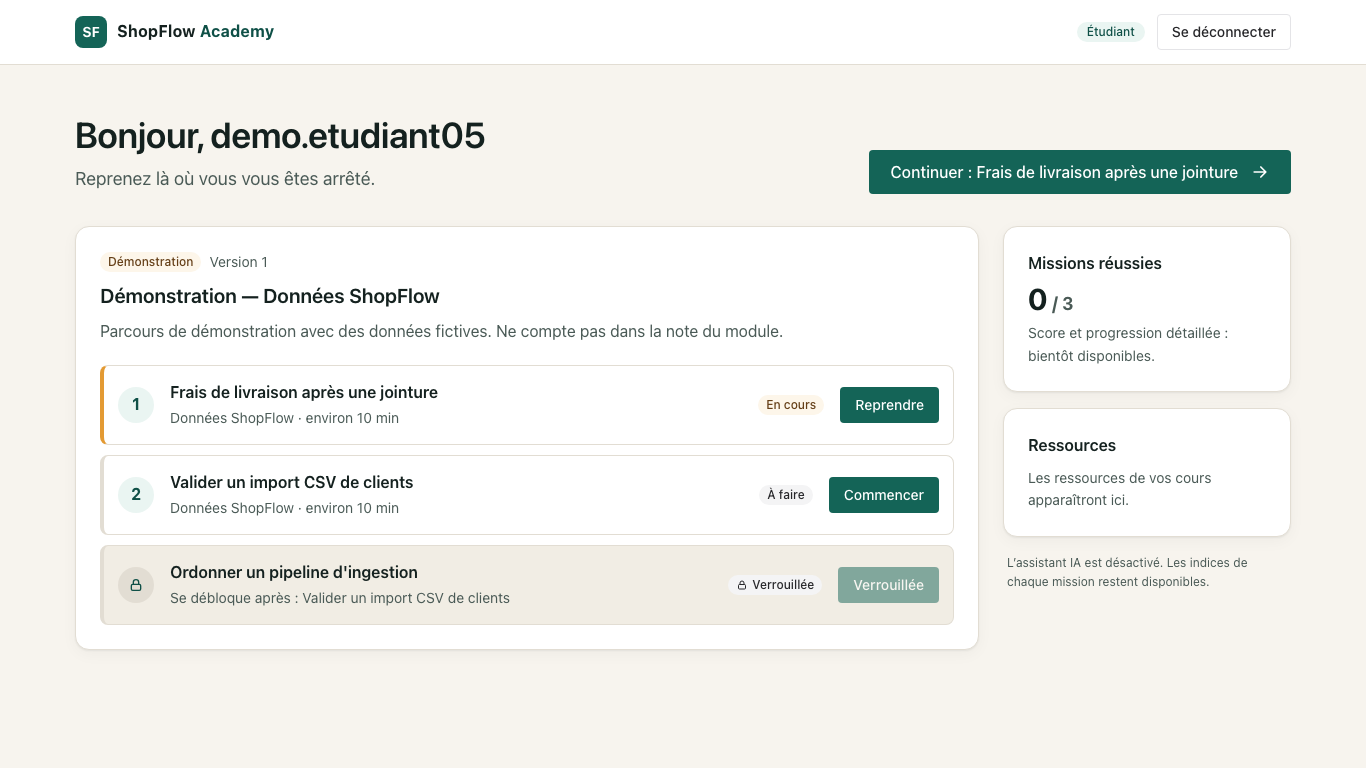
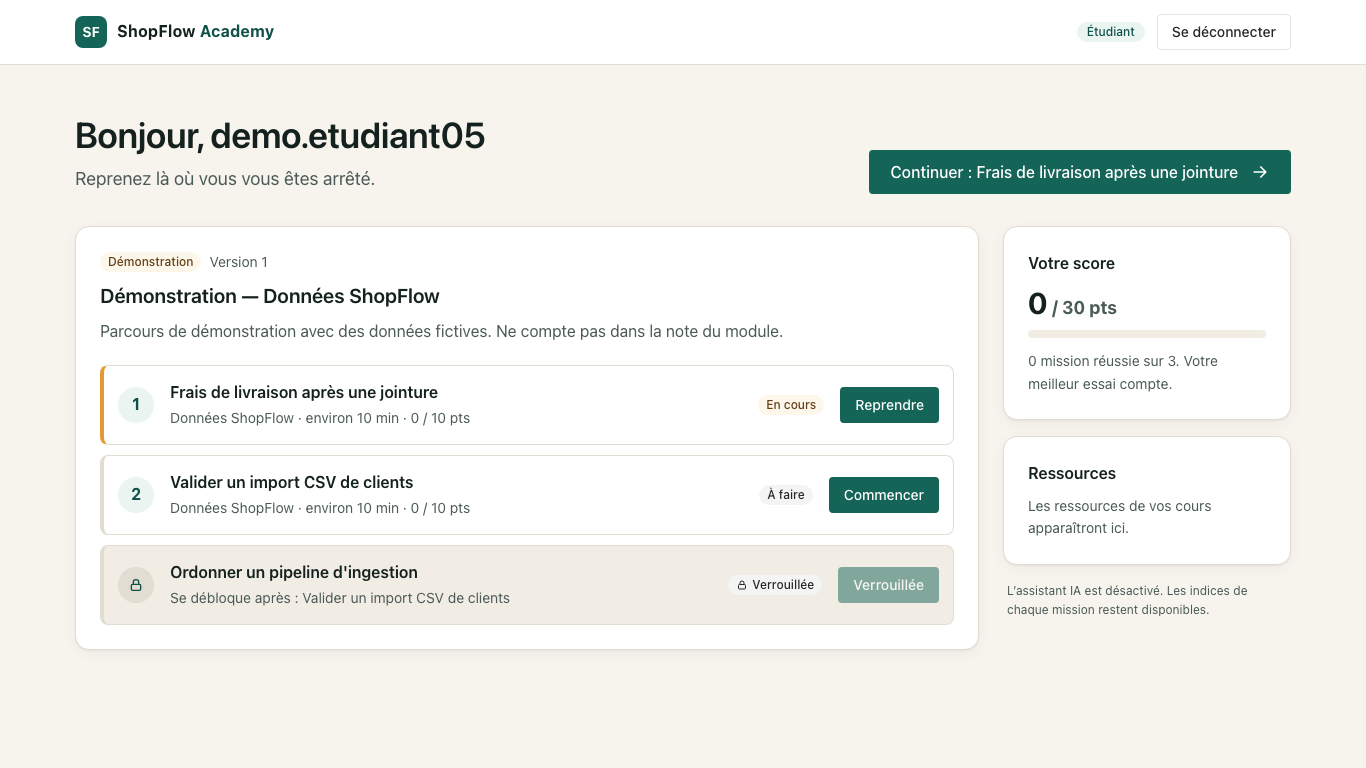
fix(p0-06): keep keyboard focus on reordered steps; add ADR-0012 and captures
React moves keyed DOM nodes when the order changes, which blurred the
button; focus is now restored after commit.

Changed region(s): [[0.7379, 0.3125, 0.9531, 0.8125], [0.3075, 0.6562, 0.3382, 0.6875], [0.3075, 0.5312, 0.3382, 0.5625]]

diff --git a/frontend/src/student/activities.tsx b/frontend/src/student/activities.tsx
@@ -1,4 +1,4 @@
-import { useRef, useState } from "react"
+import { useEffect, useRef, useState } from "react"
 import { Box, Button, Flex, NativeSelect, Stack, Table, Text, VisuallyHidden } from "@chakra-ui/react"
 import type { Choice, DisplayData } from "../studioTypes"
 import type { Answer, PlayerDefinition } from "./types"
@@ -54,7 +54,13 @@ export function ChoiceActivity({ definition, answer, onChange, disabled, name }:
 export function ReorderActivity({ definition, answer, onChange, disabled }: ActivityProps) {
   const [announcement, setAnnouncement] = useState("")
   const refs = useRef<Record<string, HTMLButtonElement | null>>({})
+  const focusAfterMove = useRef<string | null>(null)
   const byId = new Map(definition.choices.map((choice) => [choice.id, choice]))
+  // Reordering keyed DOM nodes blurs them: restore focus once React has committed the new order.
+  useEffect(() => {
+    if (focusAfterMove.current) refs.current[focusAfterMove.current]?.focus()
+    focusAfterMove.current = null
+  }, [answer.choice_ids])
   function move(index: number, direction: -1 | 1) {
     const target = index + direction
     if (target < 0 || target >= answer.choice_ids.length) return
@@ -64,7 +70,7 @@ export function ReorderActivity({ definition, answer, onChange, disabled }: Acti
     const id = next[target]
     setAnnouncement(`« ${byId.get(id)?.label} » est maintenant en position ${target + 1} sur ${next.length}.`)
     const edge = target === 0 || target === next.length - 1
-    requestAnimationFrame(() => refs.current[`${id}:${edge ? (direction < 0 ? 1 : -1) : direction}`]?.focus())
+    focusAfterMove.current = `${id}:${edge ? (direction < 0 ? 1 : -1) : direction}`
   }
   return <Box><Stack gap="2" as="ol" listStyleType="none" m="0" p="0" aria-label="Étapes à ordonner">
     {answer.choice_ids.map((id, index) => <Flex as="li" key={id} align="center" gap="3" p="3" bg="app.surface"

diff --git a/frontend/e2e/player.spec.ts b/frontend/e2e/player.spec.ts
@@ -105,7 +105,10 @@ test("a student completes the three demonstrations with the keyboard only", asyn
     let current = labels.findIndex((text) => text.includes(expected[target]))
     if (current <= target) continue
     const up = page.getByRole("button", { name: `Monter « ${expected[target]} »` })
-    await up.focus()
+    await expect(async () => {
+      await up.focus()
+      await expect(up).toBeFocused({ timeout: 300 })
+    }).toPass({ timeout: 10_000 })
     while (current > target) {
       // Focus follows the moved step, so a keyboard user simply presses Enter again.
       await expect(up).toBeFocused()

diff --git a/docs/DECISIONS/0012-grading-progress.md b/docs/DECISIONS/0012-grading-progress.md
@@ -1,0 +1,21 @@
+# ADR-0012 — Notation déterministe et progression dérivée du journal des tentatives
+
+**Date :** 2026-10-28
+**Statut :** accepté pour P0-06
+
+## Décision
+
+- **Points par tentative** calculés à l'insertion par `app.grading.score(definition, answer)`, fonction pure de la définition publiée immuable et de la réponse stockée (identifiants auteurs). Colonne `mission_attempts.points` (migration 0005) ; les tentatives antérieures (P0-05) valent `max_points` si justes, 0 sinon.
+- **Barème par mission** (`scoring`) : `all_or_nothing` par défaut ; `partial` autorisé pour choix multiple (bonnes − mauvaises sélections, plancher 0), ordre (positions justes), association (paires justes). Réglable dans le studio sans code.
+- **Meilleur score conservé** : `max(points)` des tentatives de l'étudiant sur la version ; « réussie » = au moins une tentative entièrement juste.
+- **Aucun cache** : scores, progression et totaux de cours sont recalculés à chaque lecture depuis le journal en ajout seul. Un double clic, une relance ou des requêtes concurrentes (même clé d'idempotence) ne créent qu'une tentative, donc aucun double comptage ; tout survit au redémarrage.
+- **Bonus séparés** : `core_points/core_possible` et `bonus_points/bonus_possible` distincts ; un bonus ne pénalise jamais.
+- **Rejouable** : `app.progress.replay(db)` re-note toutes les tentatives et liste les écarts (vide attendu, testé).
+- **Visibilité** : l'étudiant voit les points possibles d'une mission (barème publié) et ses propres points ; jamais les réponses attendues, le mode de barème ni la clé de correction.
+- **Historique** : `GET /api/v1/student/missions/{id}/attempts`, ses propres essais uniquement (date, réussite, points), sans écho de réponse.
+- **Limitation** : 20 tentatives par minute et par étudiant (429), observée en conditions réelles lors d'exécutions E2E enchaînées.
+- L'aperçu enseignant n'attribue aucun point : l'enseignant ne peut pas créer de tentative (403).
+
+## Conséquences
+
+Le dashboard enseignant (P0-07) lit les mêmes fonctions (`mission_scores`, `course_score`). Une correction manuelle motivée par l'enseignant devra s'ajouter comme événement distinct, jamais en modifiant une tentative.
